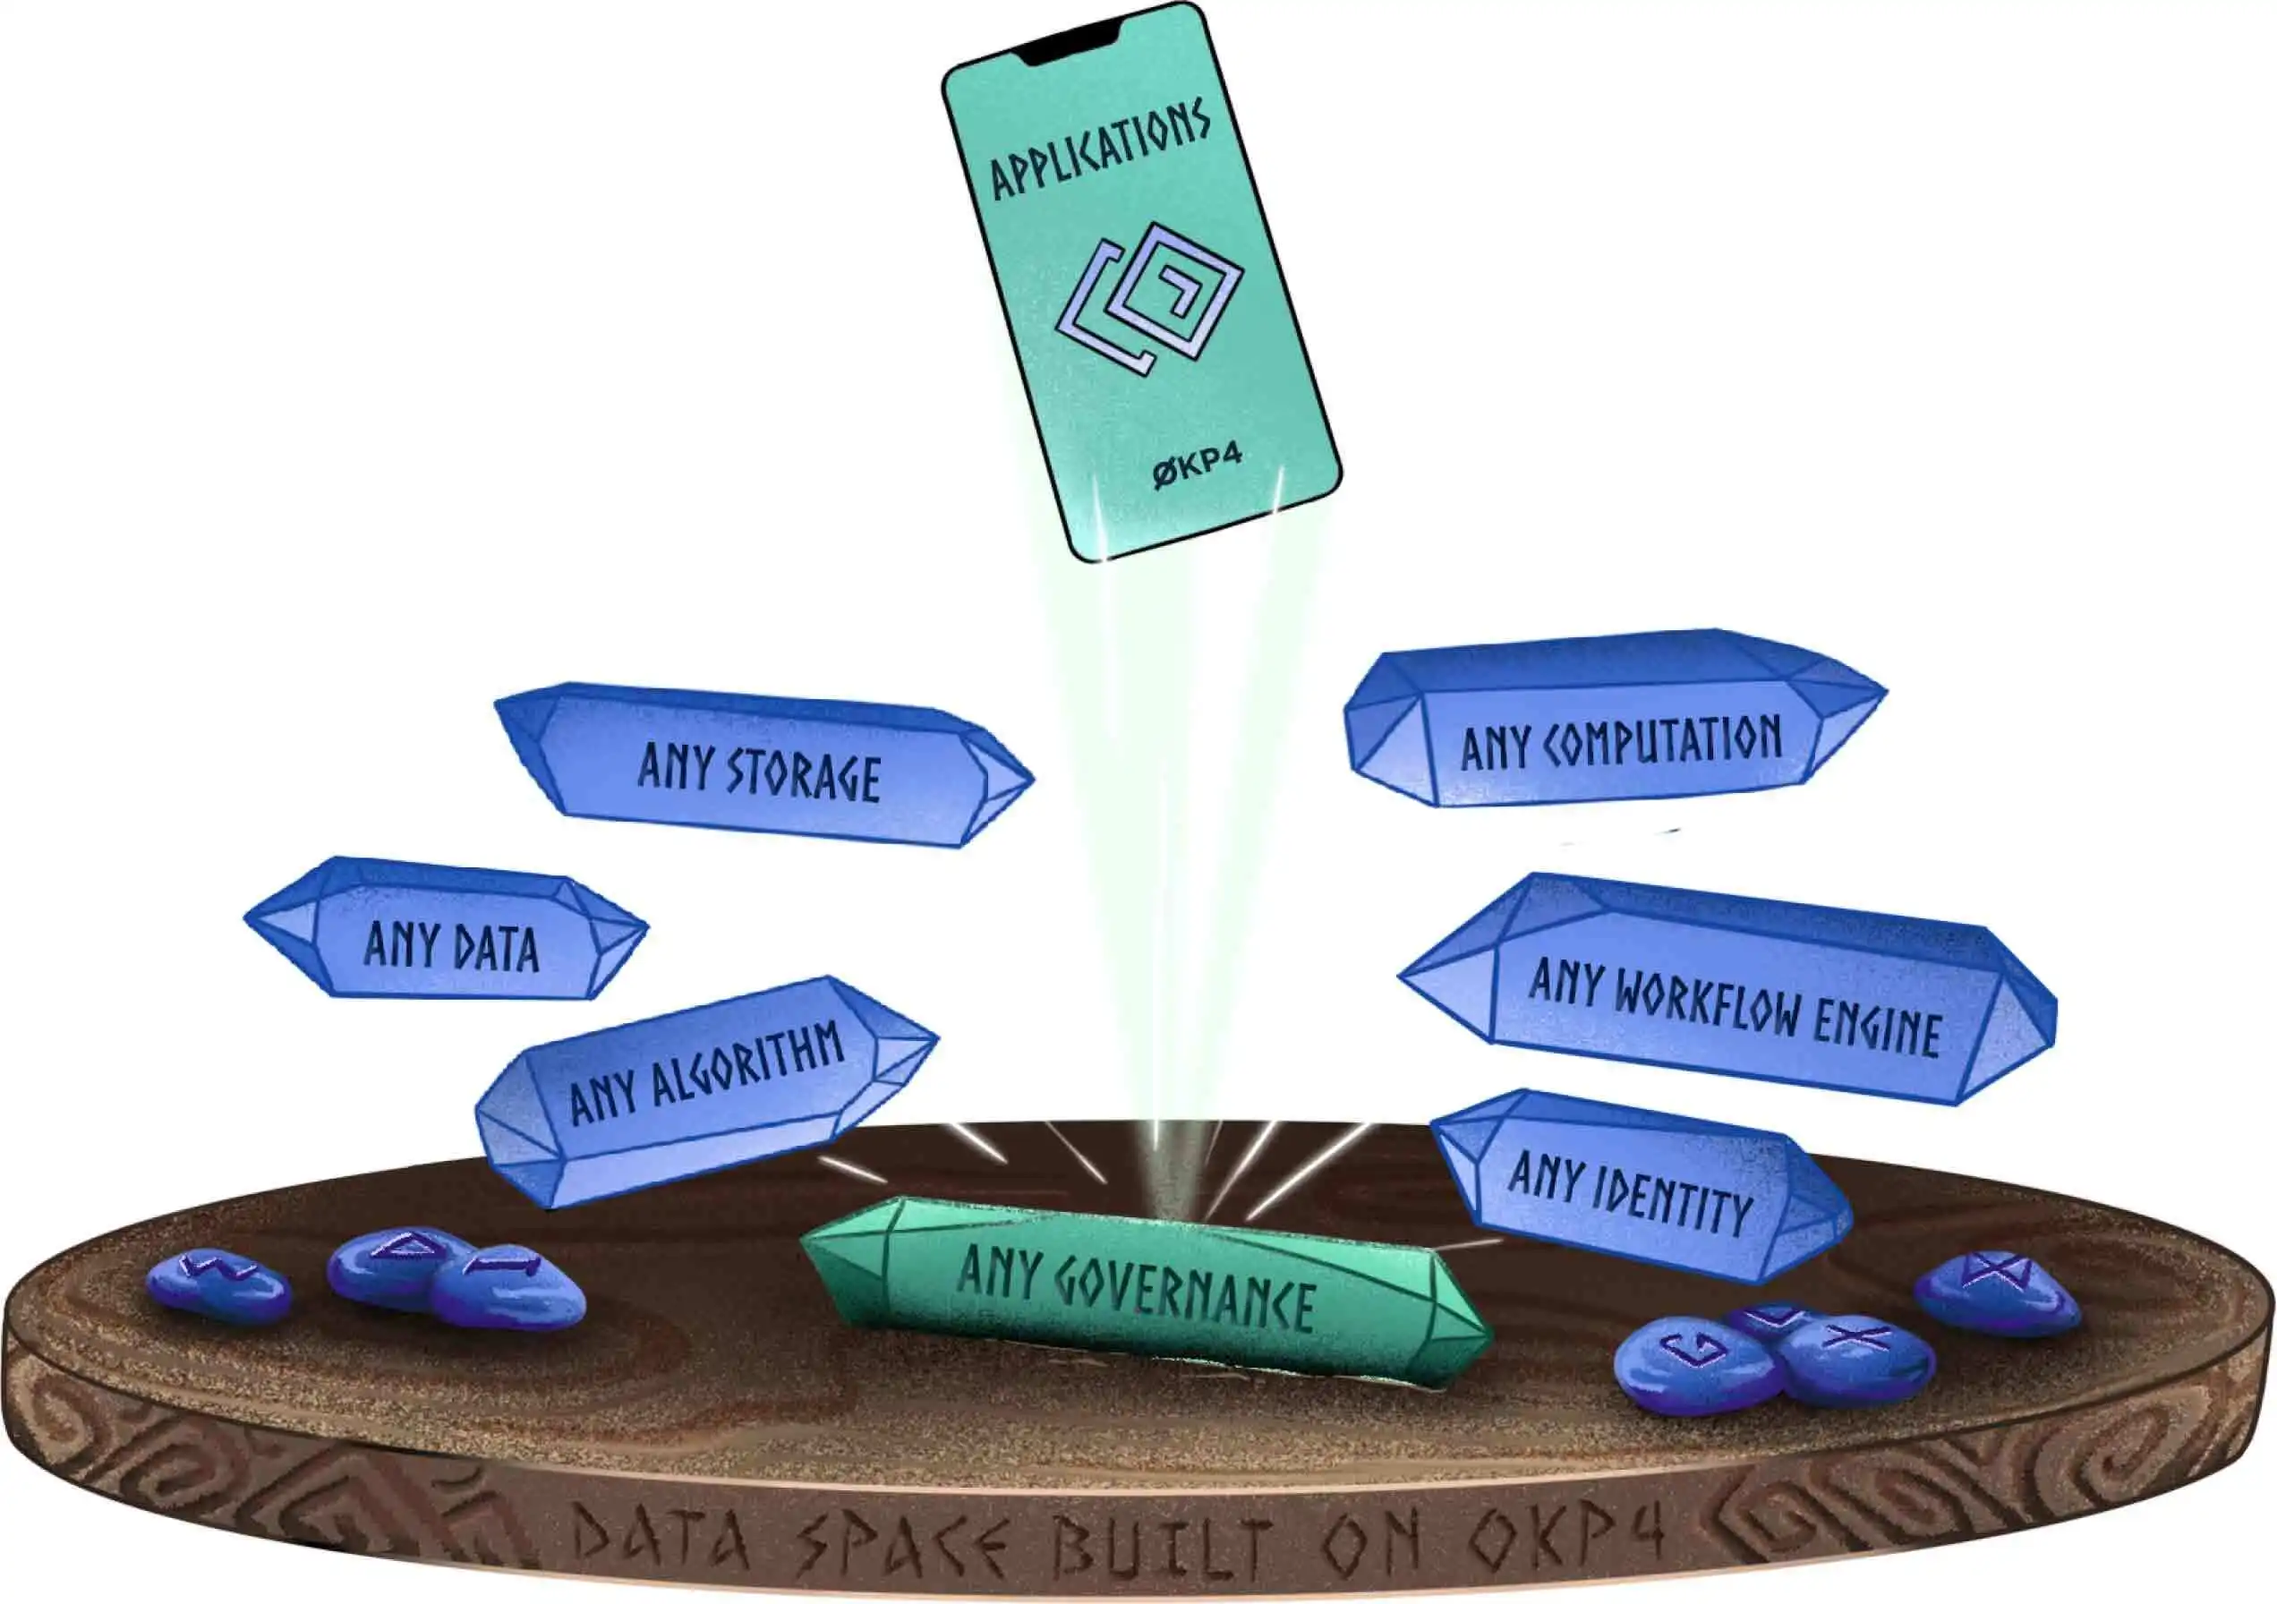
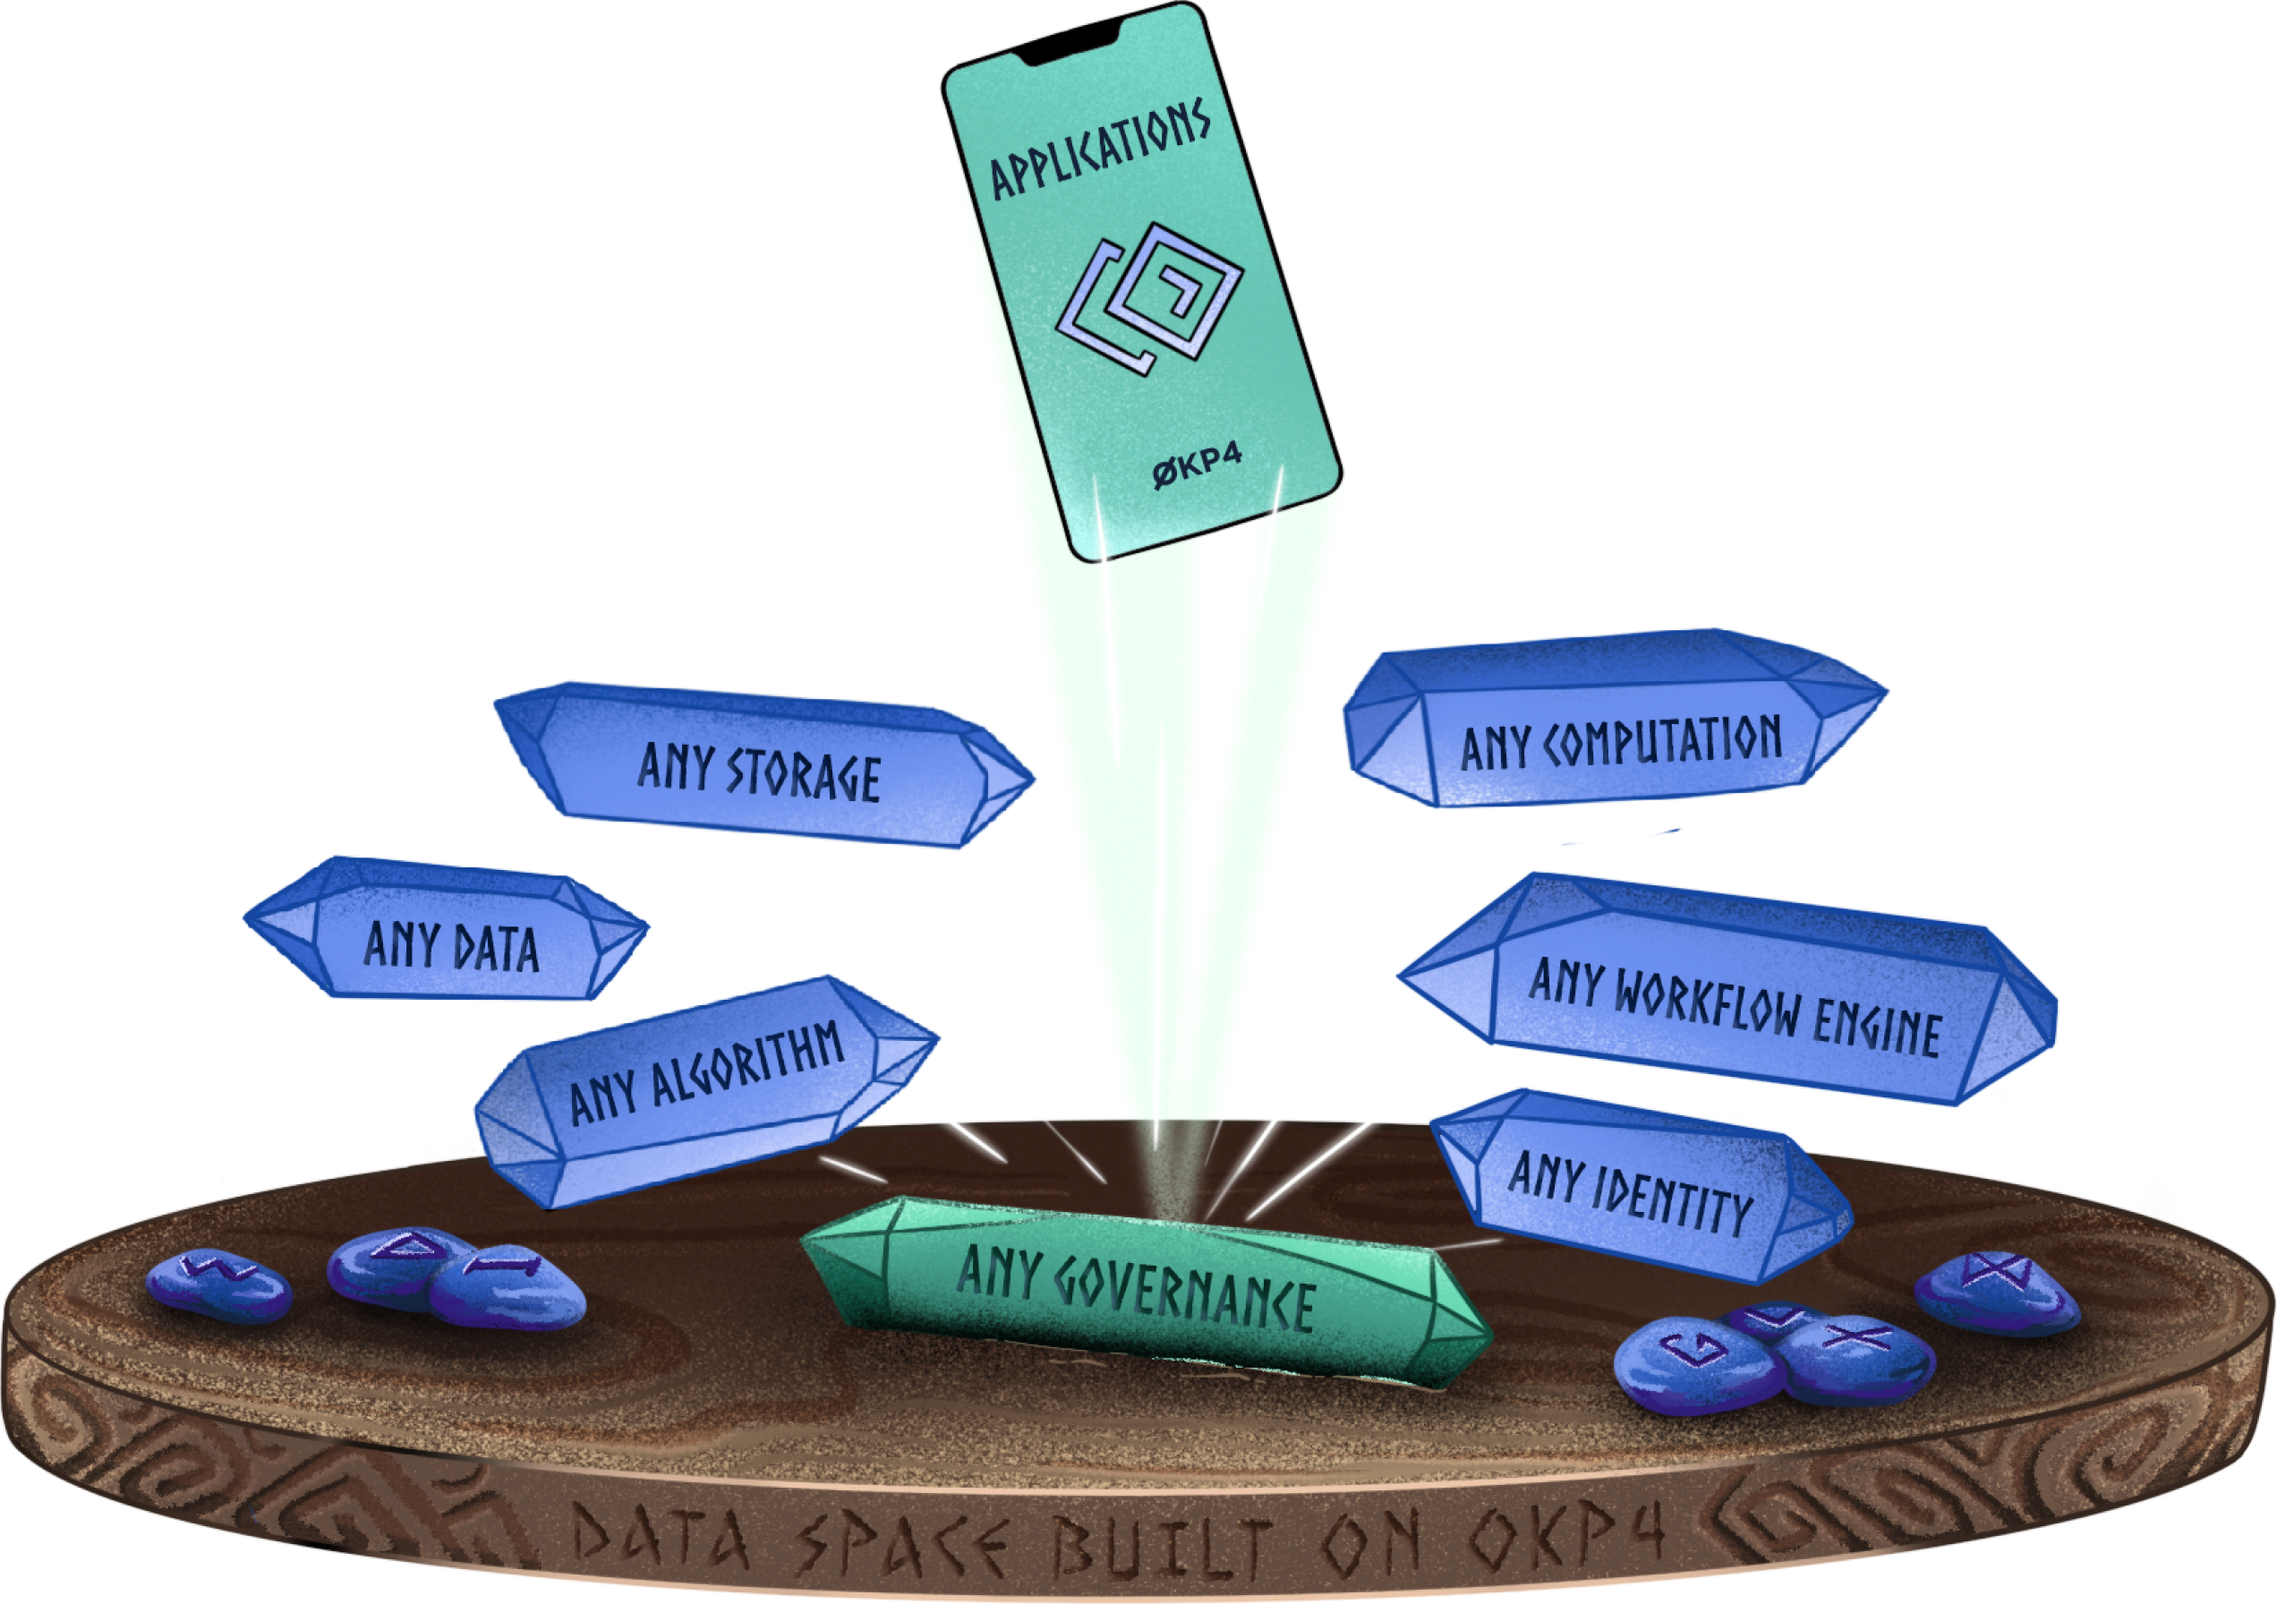
feat(dataspace): move image

diff --git a/src/components/pages/learn/DataSpace.js b/src/components/pages/learn/DataSpace.js
@@ -121,7 +121,7 @@ const DataSpace = () => {
         <div className="dataspace__image__wrapper">
           <StaticImage
             className="dataspace__image__landing"
-            src="../../../assets/images/illus/images-not-compressed/index_landing.webp"
+            src="../../../assets/images/illus/index_landing.webp"
             alt="OKP4 hero image"
             loading="eager"
           />
